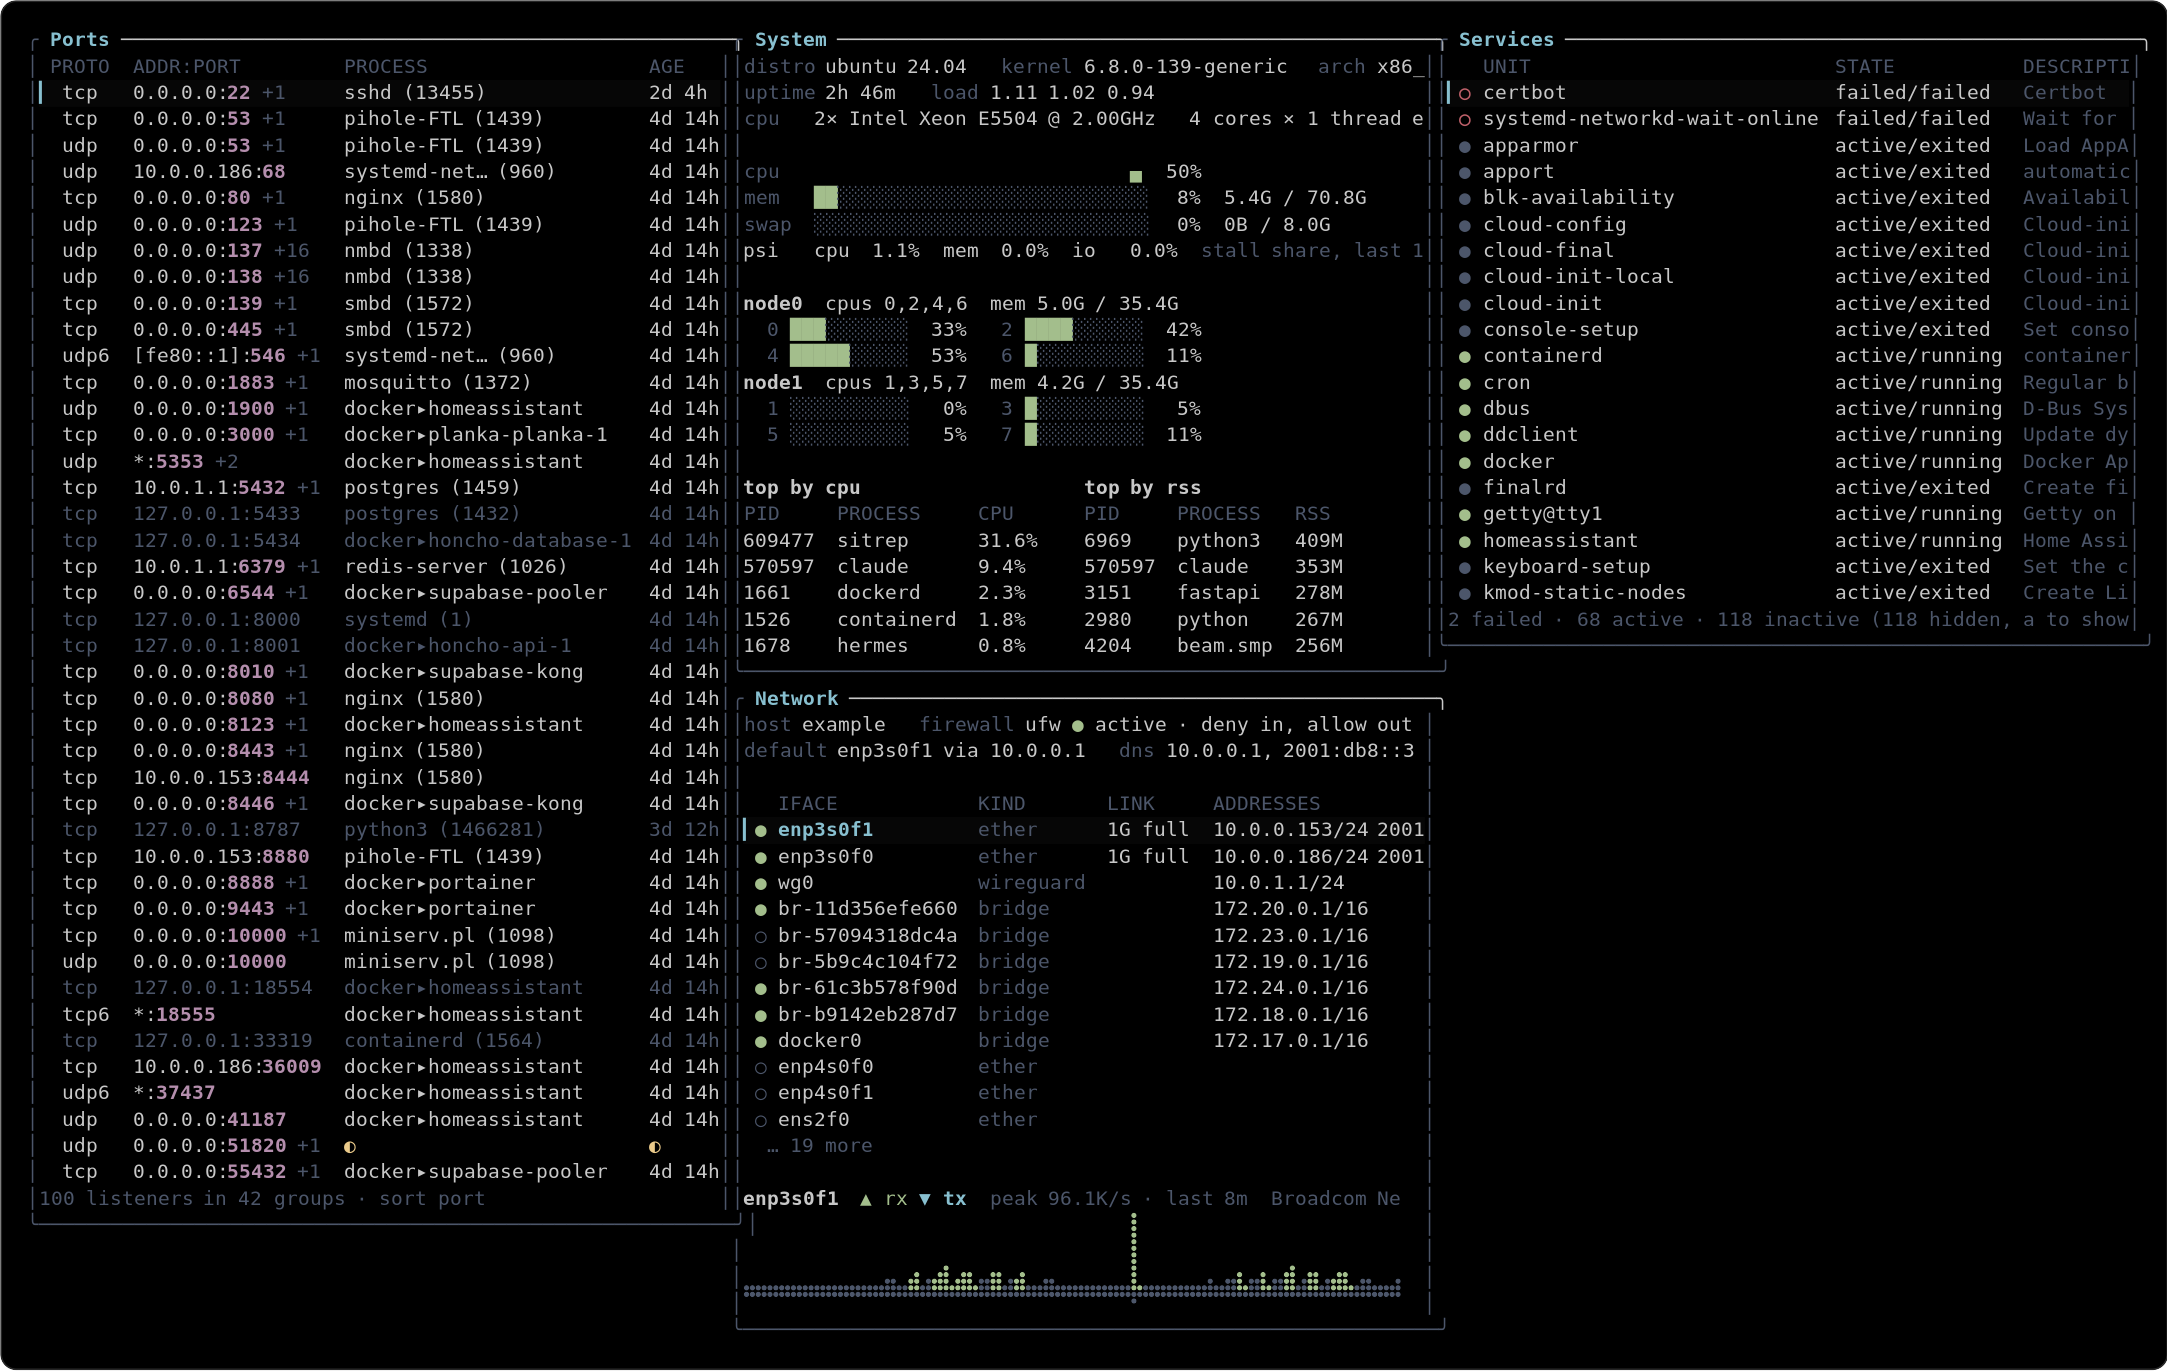
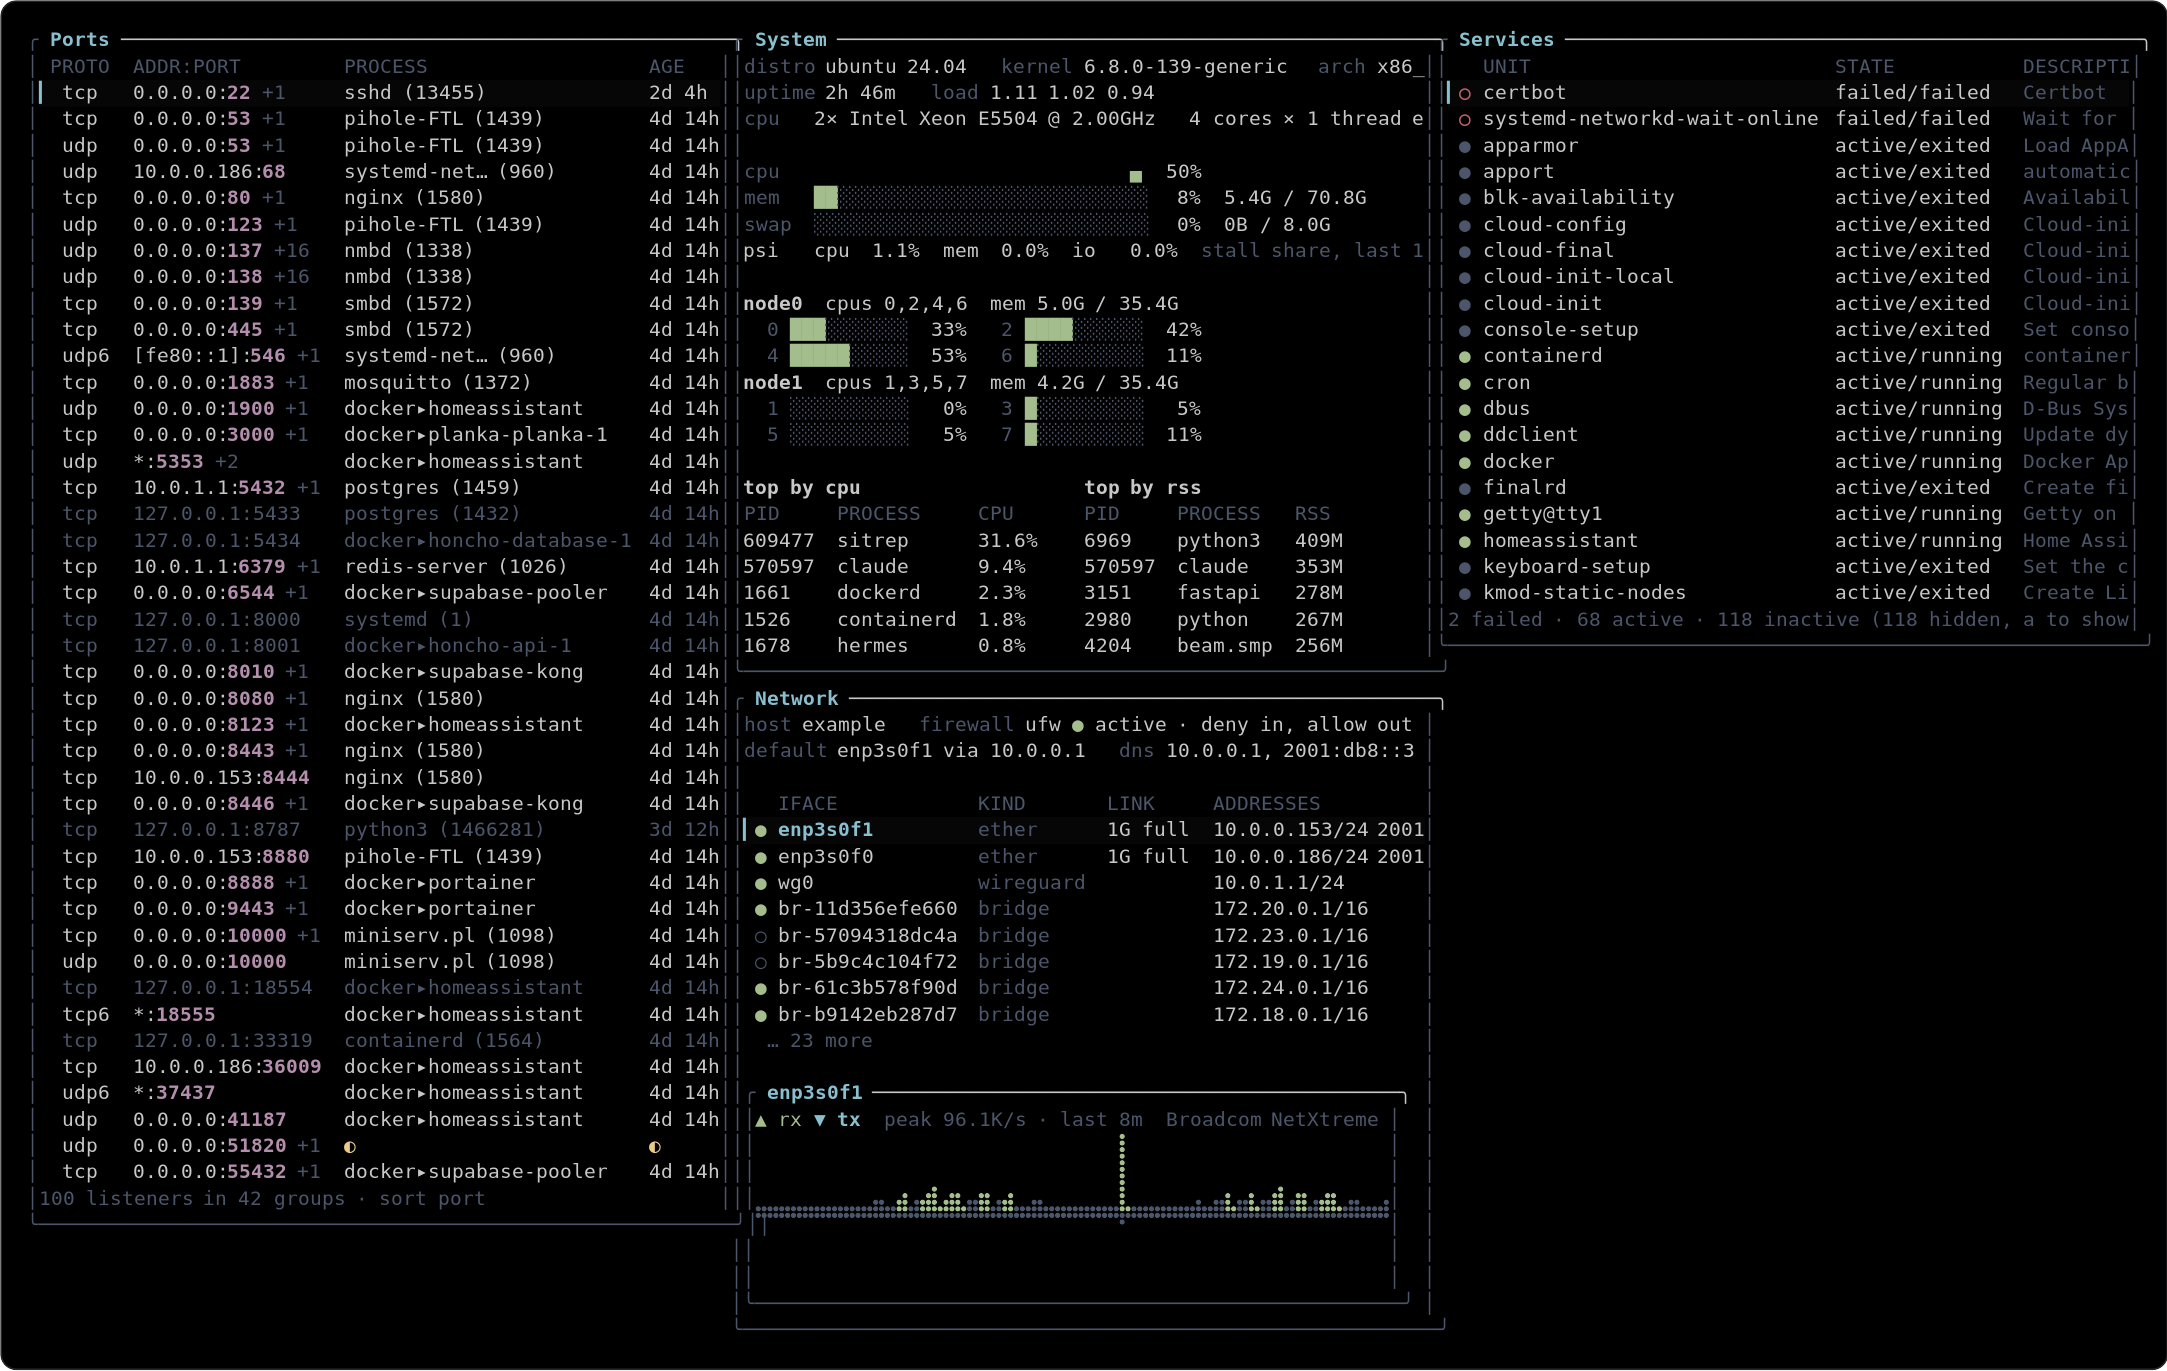
network: frame each graph panel in a box
The box gives the peak line a visible ceiling so the scale reads at a glance.
Title is the interface, the rx/tx legend, peak and hardware sit on the first
line inside. The list height budget now counts the host line and the border.

Claude-Session: https://claude.ai/code/session_01M7WvZii1BZe8zYj5rtDa5F

Changed region(s): [[0.3401, 0.7352, 0.6493, 0.8884], [0.3401, 0.919, 0.6493, 0.9497]]

diff --git a/internal/modules/network/network.go b/internal/modules/network/network.go
@@ -16,7 +16,6 @@ import (
 
 	"charm.land/bubbles/v2/key"
 	tea "charm.land/bubbletea/v2"
-	"charm.land/lipgloss/v2"
 
 	"github.com/zebadrabbit/sitrep/internal/collect"
 	"github.com/zebadrabbit/sitrep/internal/detect"
@@ -488,7 +487,7 @@ func (m *Module) View(d module.Data, w, h int) string {
 	graphRows := 3
 	listH := len(rows) + 1
 	if h > 0 {
-		listH = max(3, h-2*graphRows-4)
+		listH = max(3, h-2*graphRows-8) // head 2, blanks 2, "… more" 1, box 2 + legend 1 + 2*rows
 	}
 	lo, hi := 0, len(rows)
 	if len(rows) > listH-1 {
@@ -530,12 +529,14 @@ func (m *Module) panels(charts []string, ifaces []Iface, w, rows int) string {
 		if h := m.hist[name]; h != nil {
 			rx, tx = h[0], h[1]
 		}
-		title := s.Bold.Render(name) + "  " + s.OK.Render("▲ rx") + " " + s.Accent.Render("▼ tx") + "  " + s.Dim.Render(peakStr(rx, tx))
+		legend := s.OK.Render("▲ rx") + " " + s.Accent.Render("▼ tx") + "  " + s.Dim.Render(peakStr(rx, tx))
 		if hw := hwStr(ifaces, name); hw != "" {
-			title += "  " + s.Dim.Render(hw)
+			legend += "  " + s.Dim.Render(hw)
 		}
-		title = lipgloss.NewStyle().MaxWidth(colW - 1).Render(title) // truncate, never wrap into the graph
-		blocks = append(blocks, title+"\n"+ui.Mirror(rx, tx, colW-1, rows))
+		// The box frames the graph so the peak line has a visible ceiling;
+		// Box truncates the legend, so it never wraps into the graph.
+		inner := colW - 3
+		blocks = append(blocks, ui.Box(name, legend+"\n"+ui.Mirror(rx, tx, inner, rows), colW-1))
 	}
 	return ui.Columns(blocks, len(blocks), w)
 }

diff --git a/internal/modules/network/network_test.go b/internal/modules/network/network_test.go
@@ -82,8 +82,8 @@ func TestPanelKeys(t *testing.T) {
 	}
 	m.hist["eth0"] = &[2][]float64{{1, 2, 3}, {3, 2, 1}}
 	out := m.panels([]string{"eth0", "wg0"}, nil, 80, 2)
-	if !strings.Contains(out, "eth0") || !strings.Contains(out, "wg0") || strings.Count(out, "\n") != 4 {
-		t.Fatalf("two panels side by side, 5 lines: %q", out)
+	if !strings.Contains(out, "eth0") || !strings.Contains(out, "wg0") || strings.Count(out, "\n") != 6 {
+		t.Fatalf("two panels side by side, 7 lines (border + legend + 2 rows × 2 + border): %q", out)
 	}
 }
 
